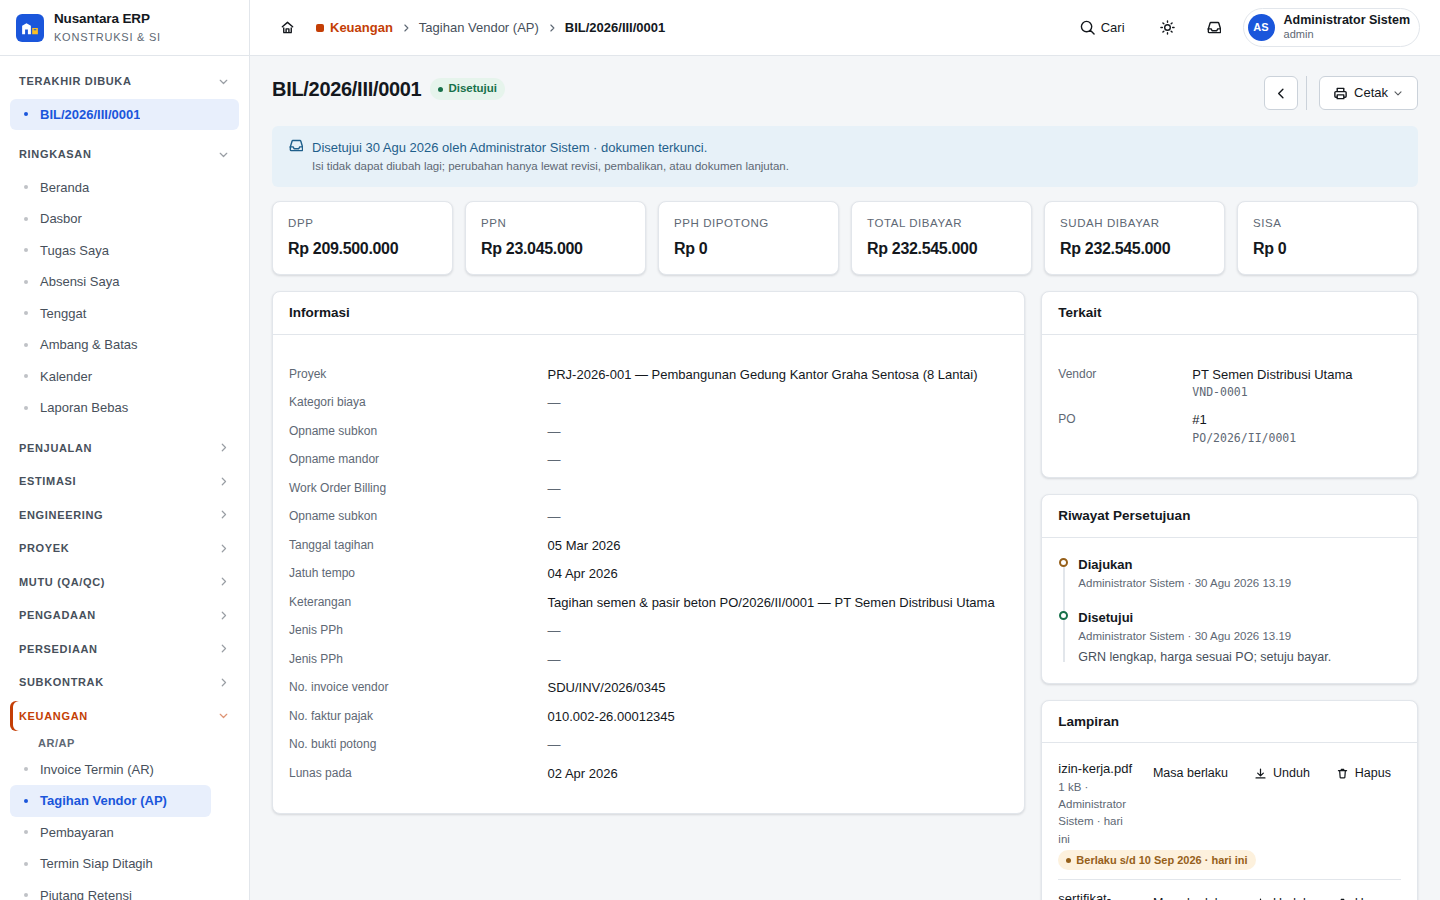
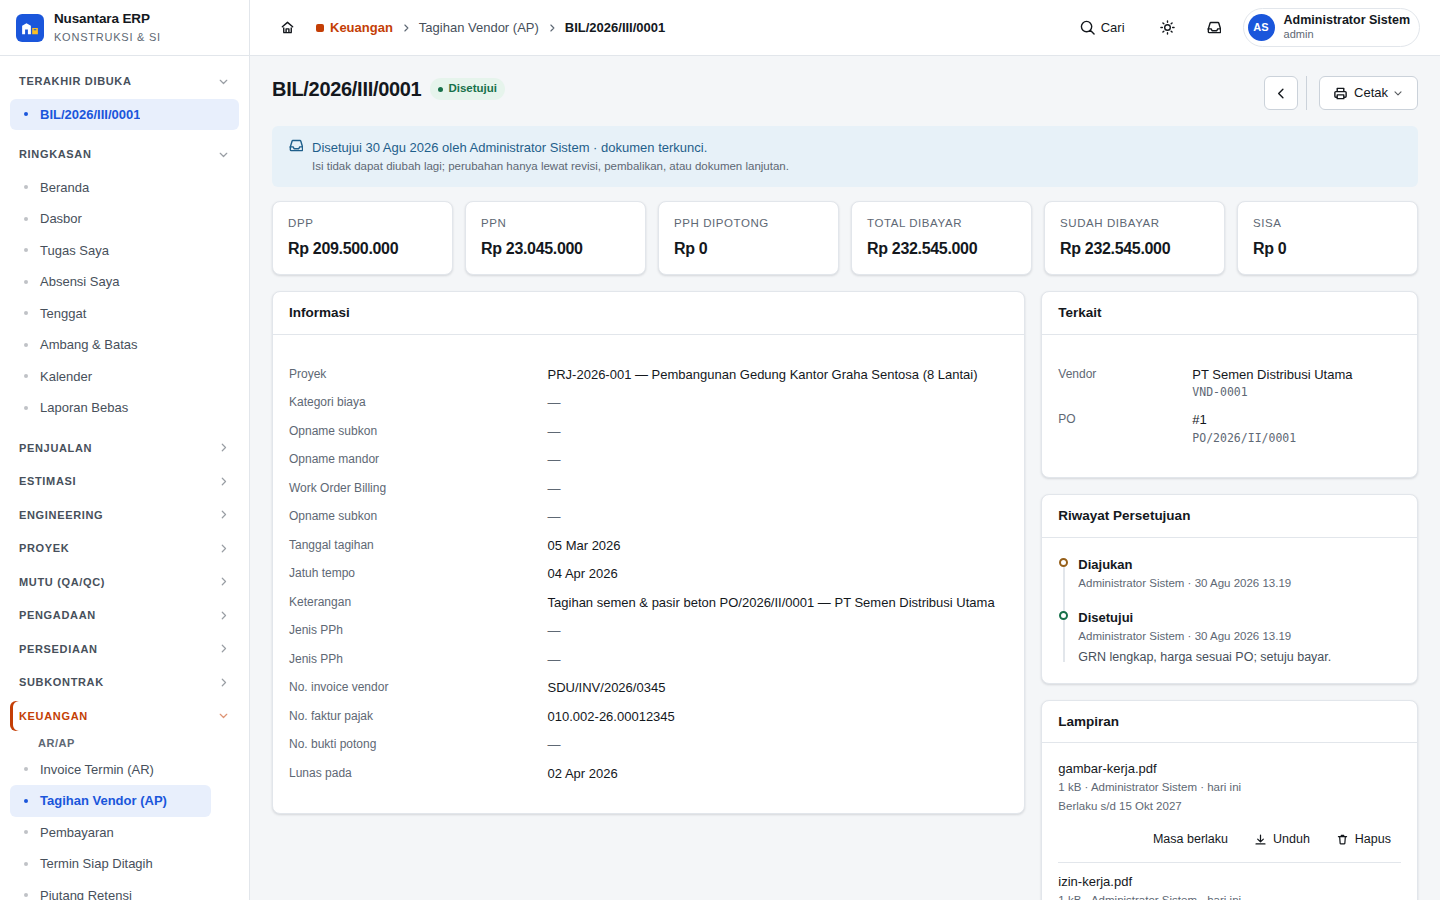
docs: laporan putaran verifikasi — angka §7 yang tidak bisa diulang, M1 yang 3 uji, dua permukaan yang kurang
GEJALA 1 (F8-V3-5). Pembaca yang menjalankan ketiga perintah grep §7 mendapat
21 / 9 / 5, bukan 17 / 8 / 3 seperti tercetak — angka itu diukur di `main`.
Sebabnya laporan ini sendiri tinggal di docs/, jadi kalimat yang MENERANGKAN
grep-nya ikut terhitung olehnya. Perintahnya kini mencetak
`--exclude=LAPORAN-PAKET-HM-F-8.md` (17 / 8 / 3, terverifikasi di pohon ini) dan
menyebutkan angka tanpa-exclude apa adanya.

GEJALA 2 (F8-V3-8). §4 M1 menulis "MERAH — 2 uji"; dijalankan ulang, mutasinya
memerahkan TIGA uji di DUA berkas (AttachmentValidUntilSchemaTest ×2,
AttachmentDeadlineWatchTest ×1). Diperbaiki.

YANG LAIN DI COMMIT INI:
- §5 dapat dua baris yang kurang — layar Tenggat SPA (`views/tenggat.js`) dan
  strip Foto lapangan (`views/lapangan.js`) — plus alasan tertulis mengapa
  tautan `Buka` per-baris ke dokumen induk DITOLAK: dihitung atas kunci
  RESOURCES schema.js DITAMBAH yang didaftarkan saat jalan (kaskecil.js), DUA
  dari 40 slug tidak punya rute detail SPA sama sekali — `projects/projects`
  (kunci SPA-nya `projects`) dan `hr/attendances` (baris absensi memang tidak
  punya layar detail) — jadi tautan itu akan mendarat di
  'Halaman "…" tidak dikenal' untuk berkas yang menempel pada keduanya.
- §4 mendapat tabel 16 mutasi putaran ini (14 merah, 2 hijau yang memang harus
  hijau: pengeditan komentar murni, dan M12).
- §6 diukur ulang di 8205, PNG diperbarui — yang lama merekam cacat yang belum
[…]

diff --git a/public/app/app.css b/public/app/app.css
@@ -1618,12 +1618,14 @@ table.lines .row-total { padding: 8px 8px; font-variant-numeric: tabular-nums; f
    memakan hampir seluruh baris dan nama berkas terukur tersisa 0-75 px —
    "ser / tifik / at- / kali / bra / si.p / df", 7 baris berisi 2-4 huruf, dan
    lencana masa berlakunya menjadi gumpalan 3-6 baris (diukur 1280/1366/1440).
-   flex-basis 260 px pada bagian utamanya adalah ambangnya: selama tombolnya
-   masih muat di samping teks yang terbaca, barisnya tetap satu baris (kartu
-   >= ~530 px, yaitu desktop 1920); lebih sempit dari itu tombolnya turun ke
-   barisnya sendiri. Media query menurut viewport tidak bisa melihat ini —
-   itulah sebabnya perbaikan ponsel 560 px dulu hijau sementara seluruh pita
-   901-1900 px rusak. */
+   flex-basis 260 px pada bagian utamanya adalah ambangnya: selama nama berkas
+   masih dapat 260 px di samping tombolnya, barisnya tetap SATU baris; lebih
+   sempit dari itu tombolnya turun ke barisnya sendiri dan namanya mendapat
+   seluruh lebar kartu. Terukur: kartu 606 px (viewport 900, .detail-grid sudah
+   runtuh) → tombol tetap sebaris; kartu 537/377/323 px (viewport 1920/1440/
+   1280, kartu di kolom samping) → tombol turun. Media query menurut viewport
+   tidak bisa melihat perbedaan itu — itulah sebabnya perbaikan ponsel 560 px
+   dulu hijau sementara seluruh pita 901-1900 px rusak. */
 .attachment {
   display: flex; align-items: flex-start; gap: 10px;
   flex-wrap: wrap;
@@ -1635,7 +1637,10 @@ table.lines .row-total { padding: 8px 8px; font-variant-numeric: tabular-nums; f
 .attachment-name { font-size: 13px; font-weight: 500; word-break: break-word; }
 /* margin-left: auto — ketika tombolnya turun, ia tetap rata kanan; ketika ia
    masih sebaris, bagian utamanya sudah menghabiskan ruang bebas dan aturan ini
-   tidak berpengaruh. Pola yang sama dengan .upload-item. */
+   tidak berpengaruh. (.upload-item menyelesaikan hal yang sama dengan media
+   query 560 px di bawah, dan di sana itu memang cukup: layar Lapangan dan
+   Absensi Saya satu kolom di setiap lebar, jadi lebar kartunya MEMANG lebar
+   viewport-nya. Kartu Lampiran tidak.) */
 .attachment .row-actions { flex: none; margin-left: auto; }
 .attachment-add { padding-top: 10px; }
 .attachment-add .help { margin-top: 6px; font-size: 11.5px; color: var(--muted); line-height: 1.5; }
@@ -1653,6 +1658,7 @@ table.lines .row-total { padding: 8px 8px; font-variant-numeric: tabular-nums; f
    (scrollWidth > clientWidth, harness S35 ponsel). Keterangan yang terpotong
    adalah keterangan yang tidak ada. */
 .attachment-validity .badge { font-size: 11px; white-space: normal; }
+
 /* ------------------------------------------------------------- lapangan */
 /* The field screen is one column at every width: it is used one-handed on a
    phone, and a layout that only collapses below a breakpoint is a layout that

diff --git a/tests/Feature/Core/DeadlineApiTest.php b/tests/Feature/Core/DeadlineApiTest.php
@@ -219,7 +219,7 @@ class DeadlineApiTest extends ErpTestCase
 
         $this->assertNotFalse($hariIni, 'umur() tidak punya cabang days === 0 yang berlaku untuk kedua tier.');
         $this->assertLessThan(
-            strpos($body, "hari lalu"),
+            strpos($body, 'hari lalu'),
             $hariIni,
             'Cabang "hari ini" berada di bawah percabangan tier — hari terakhir sebuah masa berlaku '
             .'akan terbaca "0 hari lagi" di layar sementara kotak masuk menulis "hari ini".',

diff --git a/docs/LAPORAN-PAKET-HM-F-8.md b/docs/LAPORAN-PAKET-HM-F-8.md
@@ -35,10 +35,10 @@ lapangan berteriak setiap pagi**.
 | T9 | **TANPA** `alarm_when_date_missing` (perangkap A) | ✅ | `b6237ed` — bendera `dateless_is_normal`; 60 lampiran tanpa tanggal = **0 temuan, 0 baris BLIND, 0 notifikasi**; mutasi M7 merah |
 | T10 | Kartu lampiran menampilkan masa berlaku; "tanpa masa berlaku" **bukan** peringatan | ✅ | `26937a2` — empat keadaan; harness membaca KELAS lencananya: `badge_class` **null** untuk keadaan normal, `badge amber dot` menipis, `badge red dot` kedaluwarsa |
 | T11 | Sikap e-sign sebagai TULISAN — nol kolom, nol pustaka, nol endpoint | ✅ | `7c636ba` — `docs/SIKAP-E-SIGN.md`; §7 dokumen itu berisi 4 perintah git yang memeriksanya sendiri, semuanya dijalankan (§8 di bawah) |
-| T12 | Uji PHP untuk setiap perubahan server + mutasi merah | ✅ | **35 uji baru** (256 assertion) di 3 berkas + 3 uji ditambahkan ke 2 berkas lama; **14 mutasi dijalankan, 13 merah, 1 lolos dan dilaporkan** (§4) |
-| T13 | Harness S35 desktop + ponsel → `results-phase-2.json` + PNG | ✅ | `0c2669f` — `[S35_kedaluwarsa_lampiran] ok`, `[S35_kedaluwarsa_lampiran_ponsel] ok`; 25 → 27 kunci, irisan kosong di-assert sebelum menulis; 6 PNG |
-| T14 | Cangkang PWA | ✅ | `26937a2` — daftar SHELL **tidak berubah** (tidak ada berkas SPA baru), tetapi `app.css`, `js/api.js`, `js/views/attachments.js` semuanya berkas cangkang → `SHELL_VERSION` 6 → **7** |
-| T15 | Muat `/app/` di Chromium, 0 galat konsol di tiap layar yang tersentuh | ✅ | **13 rute dimuat, `all_console_errors: []`, `http_4xx_5xx: []`** — §6 |
+| T12 | Uji PHP untuk setiap perubahan server + mutasi merah | ✅ | **35 uji baru** (256 assertion) di 3 berkas + 3 uji ditambahkan ke 2 berkas lama; **14 mutasi dijalankan, 13 merah, 1 lolos dan dilaporkan** (§4). Putaran verifikasi menambah **7 uji** (2 `DeadlineApiTest`, 5 `AttachmentSpaPolicyTest`) dan **16 mutasi lagi — 14 merah, 2 hijau yang memang harus hijau** (§4) |
+| T13 | Harness S35 desktop + ponsel → `results-phase-2.json` + PNG | ✅ | `0c2669f` — `[S35_kedaluwarsa_lampiran] ok`, `[S35_kedaluwarsa_lampiran_ponsel] ok`; 25 → 27 kunci, irisan kosong di-assert sebelum menulis; **7 PNG** (satu ditambah putaran verifikasi). Checks S35 bertambah **lima** — §6 |
+| T14 | Cangkang PWA | ✅ | `26937a2` — daftar SHELL **tidak berubah** (tidak ada berkas SPA baru), tetapi `app.css`, `js/api.js`, `js/views/attachments.js` semuanya berkas cangkang → `SHELL_VERSION` 6 → **7**. Putaran verifikasi juga menyentuh `js/views/tenggat.js` dan `js/views/lapangan.js` — keduanya sudah di daftar SHELL, dan **7 belum pernah dirilis**, jadi kenaikan yang sama menanggungnya |
+| T15 | Muat `/app/` di Chromium, 0 galat konsol di tiap layar yang tersentuh | ✅ | **13 rute dimuat, `all_console_errors: []`, `http_4xx_5xx: []`** — §6. Putaran verifikasi mengulanginya lebih lebar: **6 peran × 2 viewport × 6 rute = 12 sesi, 0 galat konsol, 0 permintaan gagal** |
 | T16 | Sapuan dokumentasi (CONVENTIONS §35) | ✅ | `7c636ba` — CONVENTIONS §37 baru, PANDUAN-PENGGUNA §1.7/§2.7/§5.9, PANDUAN-ADMINISTRATOR §5.8/§5.11; angka grep di §7 |
 
 ---
@@ -147,11 +147,11 @@ sederhananya — karena yang bisa membusuk diam-diam adalah kueri yang benar-ben
 
 ---
 
-## 4. Mutasi — 14 dijalankan, 13 merah, **1 LOLOS** dan dilaporkan begitu
+## 4. Mutasi — 14 pada paket (13 merah) + 16 pada putaran verifikasi (14 merah); yang **LOLOS** dilaporkan begitu
 
 | # | Mutasi | Hasil |
 |---|---|---|
-| M1 | Indeks disederhanakan menjadi `(valid_until)` | **MERAH** — 2 uji; pesan gagalnya mencetak rencana kueri yang jatuh kembali ke indeks lama |
+| M1 | Indeks disederhanakan menjadi `(valid_until)` | **MERAH** — **3 uji di 2 berkas** (`AttachmentValidUntilSchemaTest` ×2, `AttachmentDeadlineWatchTest` ×1); pesan gagalnya mencetak rencana kueri yang jatuh kembali ke indeks lama |
 | M2 | Aturan `valid_until` dicabut dari rute **multipart** saja | **MERAH** — 1 uji (rute JSON tetap hijau; itulah gunanya dua uji terpisah) |
 | M3 | `'present'` → `'sometimes'` pada pintu ubah | **MERAH** — PATCH tanpa kuncinya berhenti ditolak, tanggal orang lain terhapus |
 | M4 | Pintu ubah memakai izin `view` alih-alih `update` | **MERAH** — pemegang `fin.view` bisa menulis |
@@ -190,7 +190,31 @@ tanpa whereIn  : MULTI-INDEX OR → 6 × SEARCH core_attachments USING INDEX …
 Jadi paku rencana kueri pun **tidak** menangkapnya: indeksnya tetap dipakai. Ia dibiarkan
 lolos alih-alih dipaksa merah dengan uji yang mencocokkan teks rencana kueri kata demi kata —
 paku seperti itu akan merah pada versi SQLite berikutnya tanpa satu pun perilaku berubah.
-Yang ditulis sebagai gantinya: alasannya ada di komentar `scope`, dan di sini.
+Yang ditulis sebagai gantinya: alasannya ada di komentar `scope`, dan di sini. (Docblock
+`test_the_registry_scope_itself_is_planned_through_the_pair_index` sempat menyatakan
+sebaliknya — bahwa "baris inilah yang menahannya" — dan bertentangan dengan paragraf ini
+sendiri; diperbaiki, temuan F8V-5.)
+
+**Putaran verifikasi — 16 mutasi lagi, 14 merah, 2 hijau yang memang harus hijau.**
+
+| Mutasi | Hasil |
+|---|---|
+| `item.detail` dicabut dari `tenggat.js` (komentarnya dibiarkan) | **MERAH** — `DeadlineApiTest`; komentar dilucuti sebelum dicocokkan, justru supaya ia tidak bisa hijau karena prosa |
+| Cabang `days === 0` dikembalikan ke dalam tier `lewat` | **MERAH** — "umur() tidak punya cabang days === 0 yang berlaku untuk kedua tier" |
+| `uploader()` dibangun ulang setiap `load()` | **MERAH** — S35 `one_typed_expiry…`: `{'polis-lembar-2.pdf': None, …}`, kotak `''` |
+| Cabang bawaan kartu → `badge('amber')` | **MERAH** — `AttachmentSpaPolicyTest` (LOLOS HIJAU sebelum putaran ini) |
+| Cabang bawaan kartu → `badge('red')` | **MERAH** di DUA gerbang — phpunit dan S35 `a_file_still_far_from_its_date_is_plain_text` |
+| **Hanya komentar** `'berlaku'` diubah (nol perubahan perilaku) | **HIJAU** — dan itu perbaikannya: sebelumnya justru ini yang merah |
+| Tombol `Masa berlaku` dihapus dari baris | **MERAH** — `AttachmentSpaPolicyTest` (LOLOS HIJAU sebelumnya) |
+| `valid_until: validUntil.value \|\| null` → `null` | **MERAH** — idem |
+| Entri NON-lampiran memilih keluar kalender (probe) | **MERAH dengan kalimat yang menyebut entrinya**: "Entri berikut memilih keluar dari kalender: crm_activity_due…" — sebelumnya "actual size 13 matches expected size 12" |
+| `calendar_source` dicabut dari entri lampiran | **MERAH** — 4 error, penjagaan lama tetap utuh |
+| Kalimat bantuan dialog kembali menyalin "30 hari" | **MERAH** — `test_the_expiry_dialog_reads_the_warning_window_it_was_sent` |
+| `validityLine()` dicabut dari strip Lapangan | **MERAH** — asersinya menuntut PEMANGGILAN, bukan substring (versi pertama uji ini lolos: "validityLine(attachment)" juga ada di baris deklarasi fungsinya) |
+| `hideWhenNone` dimatikan di strip Lapangan | **MERAH** |
+| Pembungkus kartu dikembalikan ke media query viewport | **MERAH** — S35 `no_attachment_row_is_shredded_on_a_desktop`, dengan geometri aslinya (nama 2-3 baris, lencana 3-5 baris, satu terpotong) |
+| **M1 diulang** (indeks disederhanakan) | **MERAH — 3 uji di 2 berkas** (angka §4 semula menulis 2; F8-V3-8) |
+| **M12 diulang** (`whereIn` dicabut) | **HIJAU** — seperti dilaporkan sejak awal; docblock yang mengklaim menahannya sudah diperbaiki (F8V-5) |
 
 **Uji yang memakai konstanta produksi — diperiksa satu per satu.** Dua uji menyebut jendela
 30 hari (`test_the_thirtieth_day_before_the_date_is_the_first_warning_day`,
@@ -219,6 +243,7 @@ keadaannya dibaca**.
 | `Attachment` model | cast `date:Y-m-d` | `$appends = ['validity']` — **satu aturan, di server** | ✅ |
 | `WatchedDeadlines` (12 entri) | — | tingkat MENIPIS/LEWAT, `valid_through_end` | ✅ |
 | `DeadlineController` (layar Tenggat) | — | menyaring per izin entri | ✅ (tanpa perubahan) |
+| Layar Tenggat SPA (`views/tenggat.js`) | — | baris + klausa "menempel pada &lt;Dokumen&gt; #id", dan "hari ini" di kedua tier | ✅ — F8V-1/F8V-4; sebelumnya `item.detail` tidak pernah dirender dan hari terakhir terbaca "0 hari lagi" |
 | `DeadlineWatchCommand` (08.30) | — | badan pesan + klausa "menempel pada <Dokumen> #id" | ✅ (tanpa perubahan) |
 | `CalendarEvents` | — | **sengaja tidak** — `calendar_source => false`, §9 | ✅ keputusan tertulis |
 | Kartu lampiran SPA (`views/attachments.js`) | kotak unggah + dialog per baris | 4 keadaan, normal = teks polos | ✅ |
@@ -226,8 +251,31 @@ keadaannya dibaca**.
 | Kartu selfie absensi (`views/absensi.js`) | mewarisi kartu yang sama | mewarisi | ✅ otomatis |
 | Layar detail generik + Proyek | mewarisi `attachmentsCard()` | mewarisi | ✅ otomatis |
 | Antrean unggah lapangan (`uploadqueue.js`) | tidak menawarkan tanggal | — | ✅ sengaja — yang naik dari lapangan adalah foto progres |
+| Strip "Foto lapangan" (`views/lapangan.js`) | — | `validityNode()` yang SAMA, keadaan normal disembunyikan | ✅ — F8-V3-07; permukaan BACA kedua, luput dari tabel ini pada rilis pertama |
 | Cetakan / ekspor | — | tidak ada formulir cetak yang memuat daftar lampiran | ✅ diperiksa (`PrintableDocuments`) |
-| Persetujuan eksternal (lembar fisik) | — | lampirannya bukti tanda tangan, bukan dokumen bermasa berlaku | ✅ diperiksa |
+| Persetujuan eksternal — pemilih scan (`views/external.js`) | — | `<select>` nama berkas; pindaian lembar bertanda tangan tidak punya masa berlaku | ✅ diperiksa, sengaja diam |
+
+**Yang DITOLAK: tautan `Buka` per baris ke dokumen induknya.** Temuan verifikasi mengusulkan —
+sebagai alternatif atau tambahan atas klausa "menempel pada …" — agar tombol `Buka` entri
+lampiran membuka `#/d/<slug>/<id>` alih-alih beranda modul, "karena `AttachableDocuments`
+sudah memetakan kelas → slug". Slug-nya memang ada; **rutenya belum tentu**. Dihitung —
+kunci `RESOURCES` dari `schema.js` DITAMBAH yang didaftarkan saat jalan oleh berkas
+`views/*.js` (`kaskecil.js` mendaftarkan `finance/kasbon` dan
+`finance/petty-cash-vouchers`), lalu dibandingkan dengan ke-40 slug
+`AttachableDocuments::slugs()` — **dua** slug tidak punya rute detail SPA sama sekali:
+
+```
+slug lampiran: 40 | kunci RESOURCES: 100
+TIDAK punya rute detail SPA: ['projects/projects', 'hr/attendances']
+```
+
+`projects/projects` karena kunci SPA-nya `projects` (slug API dan kunci layar tidak sama),
+dan `hr/attendances` karena baris absensi memang **tidak punya layar detail**: kartu
+lampirannya hidup di panel satu hari layar Absensi Harian (F-4). Tautan per-baris karena itu
+akan mendarat di `Halaman "…" tidak dikenal` untuk berkas yang menempel pada keduanya, dan
+menutupnya menuntut registri slug → rute SPA yang baru di Core — permukaan baru, di paket
+yang sedang menutup temuan. Yang dikerjakan: barisnya **menyebut** dokumen induknya, dan
+`Buka` tetap beranda modul.
 
 ---
 
@@ -266,8 +314,8 @@ membuka layar yang tidak ada adalah alarm yang lebih buruk daripada tidak ada al
 `results-phase-2.json`):
 
 ```
-[S35_kedaluwarsa_lampiran] ok 9517ms clicks=4
-[S35_kedaluwarsa_lampiran_ponsel] ok 7302ms clicks=2
+[S35_kedaluwarsa_lampiran] ok 14052ms clicks=4
+[S35_kedaluwarsa_lampiran_ponsel] ok 7264ms clicks=2
 ```
 
 Yang diukurnya, dan yang **tidak bisa** dibuktikan suite PHP — **kelas lencananya**:
@@ -278,24 +326,45 @@ Yang diukurnya, dan yang **tidak bisa** dibuktikan suite PHP — **kelas lencana
 | `polis-car.pdf` (+12 hari) | `Berlaku s/d 22 Sep 2026 · 12 hari lagi` | `badge amber dot` |
 | `izin-kerja.pdf` (hari terakhirnya) | `Berlaku s/d 10 Sep 2026 · hari ini` | `badge amber dot` |
 | `sertifikat-kalibrasi.pdf` (−3 hari) | `Kedaluwarsa 07 Sep 2026 · 3 hari lalu` | `badge red dot` |
+| `gambar-kerja.pdf` (+400 hari, keadaan `berlaku`) | `Berlaku s/d 15 Okt 2027` | **null** — ditanam pada putaran verifikasi; sebelumnya keadaan ini tidak pernah digambar satu skenario pun (F8-V3-04) |
 
 …dan bahwa layar Tenggat menyebut **kedua** berkas yang dilencanai kartu, **tidak** menyebut
 yang tanpa masa berlaku, serta bahwa dialognya benar-benar menulis dan tombol `Kosongkan`
 benar-benar mengembalikan barisnya ke keadaan normal.
 
-PNG: `s35-kartu-lampiran.png`, `s35-dialog-sesudah.png`, `s35-tenggat-lampiran.png`,
-`s35-kartu-lampiran-ponsel.png`, `s35-dialog-ponsel.png`, `s35-tenggat-lampiran-ponsel.png`,
-`f8-browsercheck-kartu.png`.
+PNG: `s35-kartu-lampiran.png`, `s35-dialog-sesudah.png`, `s35-dua-unggahan.png`,
+`s35-tenggat-lampiran.png`, `s35-kartu-lampiran-ponsel.png`, `s35-dialog-ponsel.png`,
+`s35-tenggat-lampiran-ponsel.png`, `f8-browsercheck-kartu.png` — **diperbarui pada putaran
+verifikasi**; yang lama merekam cacat yang belum ditutup (`f8-browsercheck-kartu.png` versi
+pertama memperlihatkan sendiri nama berkas yang tercabik dua baris dan lencana yang
+menggumpal, F8-V3-01).
+
+**Putaran verifikasi — diukur ulang pada `127.0.0.1:8205`, salinan DB yang sama.** Empat
+checks baru menjaga apa yang putaran pertama tidak bisa lihat:
+`every_tenggat_row_names_the_document_the_file_hangs_on`,
+`the_tenggat_row_for_the_last_valid_day_also_reads_hari_ini`,
+`one_typed_expiry_covers_every_file_in_the_burst`,
+`a_file_still_far_from_its_date_is_plain_text`,
+`no_attachment_row_is_shredded_on_a_desktop`. Sapuan peramban penuh: **6 peran × 2 viewport
+(1440×900 dan 390×844) × 6 rute** (`#/home`, `#/dashboard`, `#/tenggat`,
+`#/d/finance/ap-bills/1`, `#/lapangan`, `#/kalender`) = 12 sesi —
+**console_errors 0, failed_requests 0**.
 
 ---
 
 ## 7. Sapuan dokumentasi (CONVENTIONS §35)
 
 ```
-grep -rn "kartu Lampiran" docs/ | wc -l      # 17 baris
-grep -rl "kartu Lampiran" docs/ | wc -l      # 8 berkas
-grep -rn "Tambah lampiran" docs/ | wc -l     # 3 baris di 3 berkas
+grep -rn "kartu Lampiran"  docs/ --exclude=LAPORAN-PAKET-HM-F-8.md | wc -l   # 17 baris
+grep -rl "kartu Lampiran"  docs/ --exclude=LAPORAN-PAKET-HM-F-8.md | wc -l   # 8 berkas
+grep -rn "Tambah lampiran" docs/ --exclude=LAPORAN-PAKET-HM-F-8.md | wc -l   # 3 baris di 3 berkas
 ```
+
+`--exclude` laporan ini sendiri, dan itu bukan kosmetik: laporan ini tinggal di `docs/`, jadi
+kalimat yang MENERANGKAN grep-nya ikut terhitung olehnya. Tanpa `--exclude`, ketiga perintah
+itu mengembalikan **21 / 9 / 5** di pohon ini — dan pasangan perintah+angka yang dicetak versi
+pertama §7 (17 / 8 / 3 tanpa `--exclude`) adalah angka `main`, yang tidak bisa diulang di sini.
+Diperbaiki, temuan F8-V3-5.
 
 Ketiga penyebutan `Tambah lampiran`: satu laporan paket lama (sejarah, tidak diubah), satu
 `results-phase-2.json` (bukti terukur, tidak diubah), satu **PANDUAN-PENGGUNA §2.7 — diubah**
@@ -312,6 +381,11 @@ Yang ditulis:
 - **PANDUAN-PENGGUNA §1.7** — kelompok lampiran ditambahkan ke tabel Tenggat.
 - **PANDUAN-ADMINISTRATOR §5.8/§5.11** — registri **18/19 → 34** entri; 12 entri lampiran
   dijelaskan di bawah tabel, termasuk kenapa ia satu-satunya yang bukan sumber kalender.
+- **Putaran verifikasi (kalimat yang salah, bukan bagian baru):** PANDUAN-ADMINISTRATOR §5.11
+  berhenti mengklaim parity dengan penolakan 404 `reachable()` (§9 butir 5); `SIKAP-E-SIGN.md`
+  §5.1 menunjuk ROADMAP **§5 baris 7** (bukan "§7", yang tidak ada) dan §5.3 menghitung **29**
+  jenis dokumen berpersetujuan; PANDUAN-PENGGUNA §1.5 dan kedua berkas ONBOARDING ikut
+  **28 → 29**, ONBOARDING/admin ikut **19 → 34** pengawas — D9/D10 di §11.
 
 ---
 
@@ -445,6 +519,19 @@ Gerbang rilis penuh dijalankan terpisah; yang di atas adalah putaran per-direkto
 kerja. Satu uji lama merah di putaran itu (`CalendarEventsTest`) diperbaiki, bukan
 dilonggarkan — §4.
 
+**Dijalankan ulang pada ujung cabang sesudah putaran verifikasi** (7 uji baru masuk
+`tests/Feature/Core`):
+
+| Yang dijalankan | SQLite | MySQL 8 (`erp_dryrun`) |
+|---|---|---|
+| `tests/Feature/Core` | **OK 1.029 uji, 9.254 assertion** (11 skipped) | ikut baris di bawah |
+| `tests/Unit/Core` | **OK 232 uji, 1.019 assertion** | ikut baris di bawah |
+| `tests/Feature/Core` + `tests/Unit/Core`, satu proses | **OK 1.261 uji, 10.273 assertion** (11 skipped) | **OK 1.261 uji, 10.280 assertion** (9 skipped) — dua paku rencana kueri khusus SQLite di-skip, sisanya identik |
+| Tiga berkas uji lampiran F-8 (tidak disentuh putaran ini) | **OK 35 uji, 256 assertion** | — |
+| Tiga berkas yang DISENTUH putaran ini (`DeadlineApiTest`, `AttachmentSpaPolicyTest`, `CalendarEventsTest`) | **OK 20 uji, 157 assertion** | — |
+| `tests/Unit` + `tests/Feature/Procurement` + `tests/Feature/Projects` + `tests/Feature/HrPayroll` | **OK 1.377 uji, 5.713 assertion** | — |
+| `php vendor/bin/pint --test` (seluruh repo) | gagal hanya pada **enam berkas yang sudah gagal di `main`** dan tidak satu pun disentuh F-8 (`ChartMigrationTest`, `FormXlsxExportService`, `UserFactory`, `ProductionSeeder`, `bootstrap/providers.php`, `bootstrap/app.php`) | — |
+
 ---
 
 ## 13. Commit
@@ -457,3 +544,24 @@ dilonggarkan — §4.
 | `b6237ed` | F-8: pengawas kedaluwarsa lampiran — satu kolom, dua belas audiens, nol teriakan pada foto lapangan |
 | `7c636ba` | F-8: sikap e-sign ditulis sebagai keputusan, bukan dibangun sebagai kode |
 | `0c2669f` | F-8: harness S35 — dan satu keterangan yang terpotong di ponsel, ditemukan olehnya |
+| `7d1f56c` | docs: laporan paket F-8 — dan satu paku kalender yang diperbaiki, bukan dilonggarkan |
+| `8ee20cf` | docs: angka gerbang Core dijalankan ulang pada commit terakhir |
+
+**Putaran verifikasi — 20 temuan ditutup; satu usulan di dalam dua di antaranya (tautan
+per-baris ke dokumen induk) DITOLAK dengan bukti, §5:**
+
+| SHA | Judul |
+|---|---|
+| `3667817` | F-8 (F8V-1 / F8-V3-03): baris Tenggat menyebut nama berkas tanpa dokumennya |
+| `8cc7823` | F-8 (F8V-4): hari terakhir masa berlaku terbaca "0 hari lagi" di layar Tenggat |
+| `d142c2c` | F-8 (F8V-2 / F8-V3-02): berkas kedua diam-diam tersimpan tanpa masa berlaku |
+| `543b9a0` | F-8 (F8-V3-1/2/04/05): uji yang menjaga sebuah KOMENTAR, dan dua docblock yang membalik perilakunya |
+| `fdc277d` | F-8 (F8-V3-4): dua pintu tulis SPA bisa dicabut seluruhnya tanpa gerbang memerah |
+| `a6e1b99` | F-8 (F8-V3-3): paku kalender menghitung SELURUH registri, bukan 12 entri lampiran yang dijaganya |
+| `8c4275d` | F-8 (F8-V3-06): dialog menyalin "30 hari" sementara payload lead_days tidak pernah dibaca |
+| `270b67a` | F-8 (F8-V3-07): strip Foto lapangan menampilkan berkas kedaluwarsa tanpa satu tanda pun |
+| `4713e92` | F-8 (F8-V3-01): nama berkas tercabik 7 baris di SETIAP lebar desktop 901-1900 px |
+| `0e66f39` | F-8 (F8V-3): dua kalimat mengklaim lampiran induk-terbuang tidak terjangkau; ia terunduh 200 |
+| `ee65412` | F-8 (F8V-5): docblock mengklaim menahan pencabutan whereIn; terukur ia tidak menahannya |
+| `03ae61c` | F-8 (F8-V3-6 / F8-V3-7): rujukan §7 yang tidak ada, dan sensus 28 yang sudah 29 |
+| _(commit ini)_ | docs: laporan putaran verifikasi — angka §7 yang bisa diulang, M1 yang 3 uji, dua permukaan yang kurang |
